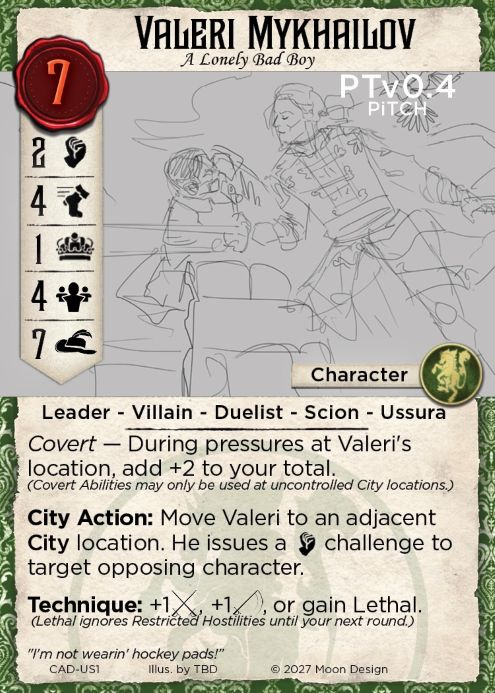
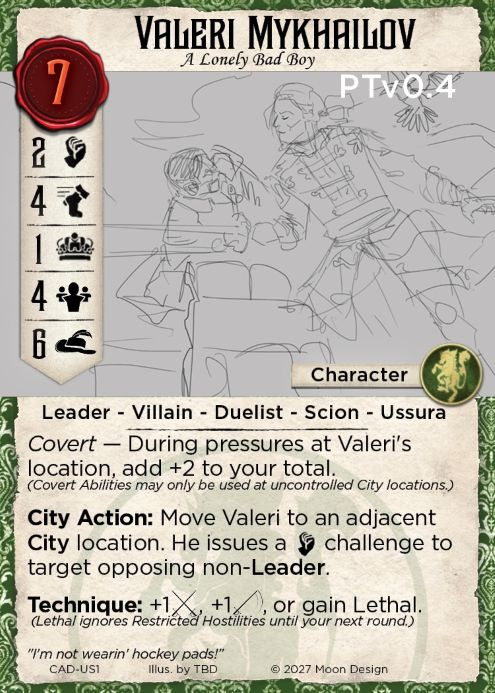
Halloween theme

diff --git a/seventhseacityoffivesails.css b/seventhseacityoffivesails.css
@@ -282,6 +282,73 @@ html[data-theme="dark"] ._7sfs-deck-picker-custom-textarea {
     border-top-right-radius: 10px;
 }
 
+/* WHY: CITY_HALLOWEEN — body gets _7sfs-halloween (Setup.js) so home-row icons
+   outside #city also swap. hand-count = cream fan cards; home-discard / city-discard
+   = dark stacked cards; home-locker / city-locker = white skull; home/score
+   panache = witch hat. Standalone PNGs with alpha (contain/center, not sprite offsets). */
+._7sfs-halloween ._7sfs-hand-count {
+    /* WHY: PNG with alpha — JPG baked a black box over the score row. */
+    background-image: url('img/holiday/hand-count.png');
+    background-size: contain;
+    background-position: center;
+    background-repeat: no-repeat;
+    background-color: transparent;
+}
+
+._7sfs-halloween ._7sfs-home-discard,
+._7sfs-halloween #city-discard {
+    background-image: url('img/holiday/home-discard.png');
+    background-size: contain;
+    background-position: center;
+    background-repeat: no-repeat;
+}
+
+/* WHY: Transparent PNG must show faction colors on home rows; city chip keeps
+   saddlebrown (same as non-Halloween #city-discard). */
+._7sfs-halloween ._7sfs-home-discard {
+    background-color: transparent;
+}
+
+._7sfs-halloween #city-discard {
+    background-color: saddlebrown;
+}
+
+/* WHY: White skull @ 25×23 — solid dark sockets (not hollow) so face reads on
+   faction-colored home rows and saddlebrown city chip. Same asset for both. */
+._7sfs-halloween ._7sfs-home-locker,
+._7sfs-halloween #city-locker {
+    background-image: url('img/holiday/home-locker.png');
+    background-size: contain;
+    background-position: center;
+    background-repeat: no-repeat;
+}
+
+._7sfs-halloween ._7sfs-home-locker {
+    background-color: transparent;
+}
+
+._7sfs-halloween #city-locker {
+    background-color: saddlebrown;
+}
+
+/* WHY: Witch hat replaces panache plume on home + score chips.
+   Black hat + purple band + orange buckle — white panache number still reads.
+   Transparent PNG so faction-colored home row / score bg shows through.
+   margin-left (home only): hat silhouette reads wider/emptier on the left
+   than the plume. */
+._7sfs-halloween ._7sfs-home-panache,
+._7sfs-halloween ._7sfs-score-panache {
+    background-image: url('img/holiday/home-panache.png');
+    background-size: contain;
+    background-position: center;
+    background-repeat: no-repeat;
+    background-color: transparent;
+}
+
+._7sfs-halloween ._7sfs-home-panache {
+    margin-left: -10px;
+}
+
 #city-locker {
     position: absolute;
     left: 75px;
@@ -318,11 +385,19 @@ html[data-theme="dark"] ._7sfs-deck-picker-custom-textarea {
     border-top-right-radius: 10px;
 }
 
-#city-day-phase {
+/* WHY: Row wraps phase chip + optional Halloween horseman so horseman stays
+   immediately right of the phase text as its width changes (Dawn vs High Drama). */
+#city-day-phase-row {
     display: none;
     position: absolute;
     left: 160px;
     top: -15px;
+    flex-direction: row;
+    align-items: center;
+    gap: 4px;
+}
+
+#city-day-phase {
     line-height: 25px;
 
     text-align: center;
@@ -334,6 +409,26 @@ html[data-theme="dark"] ._7sfs-deck-picker-custom-textarea {
     border-top-right-radius: 10px;
     padding-left:5px;
     padding-right: 5px;
+}
+
+#city-halloween-horseman {
+    display: none;
+    box-sizing: border-box;
+    width: 31px;
+    height: 31px;
+    border: none;
+    border-top-left-radius: 10px;
+    border-top-right-radius: 10px;
+    background-image: url('img/holiday/headlesshorseman.png');
+    background-size: contain;
+    background-repeat: no-repeat;
+    background-position: center;
+    /* WHY: Transparent PNG — no baked bg; sits on the board without a chip frame. */
+    background-color: transparent;
+}
+
+._7sfs-city-halloween #city-halloween-horseman {
+    display: block;
 }
 
 #city-ul-tower {
@@ -368,6 +463,31 @@ html[data-theme="dark"] ._7sfs-deck-picker-custom-textarea {
     fill: black;
     stroke-width: 10;
     stroke: saddlebrown;
+}
+
+/* WHY: CITY_HALLOWEEN === 1 adds _7sfs-city-halloween on #city (Setup.js).
+   Hide SVG rects; paint same 30x30 slots with lit jack-o-lantern art.
+   Border uses saddlebrown like #city / day chip / SVG tower stroke — without it the
+   black-backed JPG reads as a plain black block at this size. */
+._7sfs-city-halloween #city-ul-tower,
+._7sfs-city-halloween #city-ur-tower,
+._7sfs-city-halloween #city-ll-tower,
+._7sfs-city-halloween #city-lr-tower {
+    box-sizing: border-box;
+    width: 30px;
+    height: 30px;
+    border: 3px solid saddlebrown;
+    background-image: url('img/holiday/jackolantern.jpg');
+    background-size: cover;
+    background-repeat: no-repeat;
+    background-position: center;
+}
+
+._7sfs-city-halloween #city-ul-tower svg,
+._7sfs-city-halloween #city-ur-tower svg,
+._7sfs-city-halloween #city-ll-tower svg,
+._7sfs-city-halloween #city-lr-tower svg {
+    display: none;
 }
 
 ._7sfs-city-location {

diff --git a/modules/js/Setup.js b/modules/js/Setup.js
@@ -15,6 +15,14 @@ return declare('seventhseacityoffivesails.setup', null, {
     {
         this.bga.gameArea.getElement().insertAdjacentHTML('beforeend', this.mainBoardhtml);
 
+        // WHY: CITY_HALLOWEEN is a client flag (seventhseacityoffivesails.js).
+        // Class on #city keeps tower DOM ids intact for city-deck FLIP origins.
+        // Class on body also covers home-discard / hand-count outside #city.
+        if (window.CITY_HALLOWEEN === 1) {
+            dojo.addClass('city', '_7sfs-city-halloween');
+            dojo.addClass(document.body, '_7sfs-halloween');
+        }
+
         debug( "Starting game setup" );
         debug( "gamedatas", gamedatas );
 
@@ -70,6 +78,9 @@ return declare('seventhseacityoffivesails.setup', null, {
         this.addTippyTooltip( 'city-locker', `<div class='_7sfs-basic-tooltip'>${_('City Locker Pile')}</div>` );
         this.addTippyTooltip( 'day-indicator', `<div class='_7sfs-basic-tooltip'>${_('The Current Day')}</div>` );
         this.addTippyTooltip( 'city-day-phase', `<div class='_7sfs-basic-tooltip'>${_('The Current Phase of the Day')}</div>` );
+        if (window.CITY_HALLOWEEN === 1) {
+            this.addTippyTooltip( 'city-halloween-horseman', `<div class='_7sfs-basic-tooltip'>${_('Happy Halloween!')}</div>` );
+        }
         this.addTippyTooltipToClass('_7sfs-city-reknown-chip', `<div class='_7sfs-basic-tooltip'>${_('Current Renown on this City Location')}</div>` );
 
         //Update the day
@@ -87,8 +98,9 @@ return declare('seventhseacityoffivesails.setup', null, {
                 case 4: $('city-day-phase').innerHTML = _('Plunder'); break;
                 case 5: $('city-day-phase').innerHTML = _('Dusk'); break;
             }
-            
-            dojo.style('city-day-phase', 'display', 'block');
+
+            // WHY: Show the row (phase + optional horseman), not just #city-day-phase.
+            dojo.style('city-day-phase-row', 'display', 'flex');
         }
 
         // Setting up player home boards

diff --git a/seventhseacityoffivesails.js b/seventhseacityoffivesails.js
@@ -52,6 +52,10 @@ function (dojo, declare, domClass, gamegui, counter, stock, BgaAnimations, bgaCa
 {
     // Define isDebug and debug globally so all modules can access them
     window.isDebug = window.location.host == 'studio.boardgamearena.com' || window.location.hash.indexOf('debug') > -1;
+
+    // WHY: Seasonal city-tower swap. Set to 1 for lit jack-o-lanterns; 0 restores SVG towers.
+    // Client-only — no server/gamedatas involvement; flip and redeploy when Halloween ends.
+    window.CITY_HALLOWEEN = 1;
     
     // Store bga-cards classes globally
     // The library exports CardManager as 'Manager' and HandStock directly

diff --git a/modules/js/Templates.js b/modules/js/Templates.js
@@ -417,7 +417,10 @@
                     <div id="city-discard"></div>
                     <div id="city-locker"></div>
                     <div id="day-indicator"></div>
-                    <div id="city-day-phase"></div>
+                    <div id="city-day-phase-row">
+                        <div id="city-day-phase"></div>
+                        <div id="city-halloween-horseman"></div>
+                    </div>
 
                     <div id="city-ur-tower">
                         <svg width="30" height="30" xmlns="http://www.w3.org/2000/svg">

diff --git a/modules/js/OnEnteringState.js b/modules/js/OnEnteringState.js
@@ -18,7 +18,8 @@ onEnteringState: function( stateName, args )
     const methods = {
         'dawnBeginning': (args) => {
             $('city-day-phase').innerHTML = _('Dawn');
-            dojo.style('city-day-phase', 'display', 'block');            
+            // WHY: Row also hosts Halloween horseman to the right of the phase chip.
+            dojo.style('city-day-phase-row', 'display', 'flex');
         },
 
         'planningPhase': () => {

diff --git a/modules/php/cards/cad/_05DabneyUS01.php b/modules/php/cards/cad/_05DabneyUS01.php
@@ -45,7 +45,7 @@ class _05DabneyUS01 extends Leader implements IHasActions
 
         $this->Text = "<p><i>Covert</i> - During pressures at Valeri's location, add +2 to your total.
 <br>(<i>Covert Abilities may only be used at uncontrolled locations.</i>)</p>
-<p><b>City Action:</b> Move Valeri to an adjacent <b>City</b> location. He issues a [Combat] challenge to target opposing character.</p>
+<p><b>City Action:</b> Move Valeri to an adjacent <b>City</b> location. He issues a [Combat] challenge to target opposing non-</b>Leader</b>.</p>
 <p><b>Technique:</b> +1[Parry], +1[Riposte], or gain Lethal</p>";
 
         $this->resetCard();

diff --git a/.cursor/journal/2026-10-09-04-city-halloween-towers.md b/.cursor/journal/2026-10-09-04-city-halloween-towers.md
@@ -1,0 +1,100 @@
+# City Halloween towers (CITY_HALLOWEEN)
+
+## Context
+User asked to replace the four city corner towers with lit jack-o-lanterns, then to gate that behind a `CITY_HALLOWEEN` flag (show when `1`).
+
+## What / Why
+- Towers stay as `#city-ul-tower` etc. in Templates.js (SVG rects). **Do not remove those ids** — Notifications FLIP city-deck cards from `#city-ul-tower`.
+- Flag is **client-only** `window.CITY_HALLOWEEN` in `seventhseacityoffivesails.js` (same pattern as `isDebug`). WHY not a game option / gamedatas: seasonal art only; no server state; flip + redeploy when Halloween ends.
+- Setup.js: if flag === 1, `dojo.addClass('city', '_7sfs-city-halloween')`.
+- CSS under that class: hide SVGs, 30×30 `background-image: url('img/jackolantern.jpg')`, drop black borders.
+- Asset: generated `img/jackolantern.jpg` (black bg, lit pumpkin). Same file on all four corners.
+
+## Toggle
+```js
+window.CITY_HALLOWEEN = 1; // on
+window.CITY_HALLOWEEN = 0; // normal SVG towers
+```
+Currently set to **1**.
+
+## Unfinished / watch
+- At 30×30 the carved face may be muddy — if Eddie complains, regenerate a simpler flatter icon or crop tighter.
+- Black square behind pumpkin may look odd on non-black board edges; could chase a transparent PNG later.
+
+## Follow-up: borders
+User: jackolantern read as plain black block. Restored city chrome — `3px solid saddlebrown` + `box-sizing: border-box` + `background-size: cover` (was `border: none` / fixed 30px size which hid the frame that made original SVG towers read as towers).
+
+## Follow-up: headless horseman
+Asset `img/headlesshorseman.jpg`. Wrapped `#city-day-phase` in `#city-day-phase-row` (flex) with `#city-halloween-horseman` sibling so it sits immediately right of the phase chip as text width changes. Horseman only `display:block` under `._7sfs-city-halloween`. Setup + dawnBeginning now show the **row** (`display:flex`), not `#city-day-phase` alone. Tooltip: "Happy Halloween!"
+
+## Follow-up: horseman legibility
+First horseman was dark gothic linework — mud at 31px. Regenerated as flat bold icon: big bright pumpkin as focal point, simple black horse/cloak silhouettes, thick shapes, no fine detail. Overwrote `img/headlesshorseman.jpg` (and assets copy). CSS size unchanged.
+
+Still unreadable (black-on-black). Regenerated again with light cream parchment bg (#F5E6C8) so dark silhouette pops; CSS `background-color` matched.
+
+## Follow-up: holiday folder
+Moved both assets to `img/holiday/` (`jackolantern.jpg`, `headlesshorseman.jpg`). CSS urls updated to `img/holiday/...`.
+
+## Follow-up: discard spiders
+**Mistake:** first spider art was the cream fan cards = `_7sfs-hand-count` (`-315px` @ 65% → src ~485), NOT discard. Renamed to `img/holiday/hand-count.jpg`.
+
+**Real discard:** `_7sfs-home-discard` / `#city-discard` share `-208px` @ 50% → src (416,0,72,48) — dark stacked-card silhouette (black+alpha on transparent; reads on saddlebrown). Holiday: `img/holiday/home-discard.jpg` with 2 bright orange spiders (black wouldn't read on dark stack). Kept `home-discard-base.png` + `hand-count-base.png`.
+
+**CSS/JS:** Setup also `dojo.addClass(document.body, '_7sfs-halloween')` — hand-count and home-discard live outside `#city`. Rules under `._7sfs-halloween` for both; city-discard uses home-discard.jpg.
+
+## Follow-up: hand-count transparency
+AI JPG had opaque black bg (JPG can't alpha). Rebuilt `hand-count.png` from transparent `hand-count-base.png` crop + GDI+ dark-purple spiders. CSS → png, `contain`, `background-color: transparent`.
+
+## Follow-up: hand-count spider size
+User snip showed purple specks under the "7". Thin spiders die at 35×32. Redrew as chunky dark-purple silhouettes (thick body + short fat legs), scale ~10 on 8x work — ~30–40% of a card face. Center left clear for numeral.
+
+## Follow-up: home-discard transparency
+`home-discard.jpg` had baked saddlebrown — wrong on faction-colored home rows. Rebuilt `home-discard.png` from alpha sheet crop + orange spiders (readable on dark stack). CSS → png, contain, transparent. Deleted jpg. Same asset for `#city-discard` and `._7sfs-home-discard`.
+
+## Follow-up: home-discard spider size
+Spiders too small after transparent rebuild. Bumped chunky orange spiders to scale ~12 on 8x work (~15% of 36×24 chip is orange). Output 72×48 PNG.
+
+## Follow-up: city-discard bg
+Halloween rule set `background-color: transparent` on BOTH home + city discard. City chip lost saddlebrown (user snip). Split: home stays transparent; `#city-discard` restores `saddlebrown`.
+
+## Follow-up: discard spider colors
+Size was good; legs were orange too. Redrew same scale with black legs, orange bodies (legs drawn under body).
+
+## Follow-up: discard spider angles
+User wanted more realistic crawl pose. Same size/colors; RotateTransform −35° and +50° so they aren't upright stamps.
+
+## Follow-up: hand-count spiders match discard
+Restyled `hand-count.png` spiders same as discard: orange bodies, black legs, crawl angles −65° / +55°, elongated abdomen via polygon. Still transparent PNG; parked on side cards for numeral.
+
+## Follow-up: jackolantern fill
+User: too much black padding in `img/holiday/jackolantern.jpg`. Kept 1024×1024; ImageMagick `-fuzz 5% -trim` then `-resize 980x980` centered on black `-extent 1024x1024`. Content was ~746×741 (+146+116 margins) → ~980×973 (+22+25). WHY 980 not full bleed: tiny margin so stem/edges don't clip at 30×30 `cover` crop.
+
+## Follow-up: horseman gloomy grey bg
+User: cream parchment → gloomy grey, but not dark enough to mud black silhouette at 31px. Flood-filled cream from edges → `#94989F` (148,152,159); remapped cream/black AA edges; left pumpkin + orange glow alone. CSS `#city-halloween-horseman` `background-color` matched (was `#F5E6C8`). WHY mid cool grey not charcoal: earlier dark gothic art was illegible at chip size — need contrast vs solid black horse/cloak.
+
+## Follow-up: horseman no gold border
+User: remove gold border from `#city-halloween-horseman` → `border: none`.
+
+## Follow-up: horseman transparent PNG
+User: transparent PNG + remove CSS border. Flood-removed gloomy grey `#94989F` → alpha; silhouette AA as soft black alpha (no grey halo); pumpkin/glow kept. Saved `img/holiday/headlesshorseman.png`, deleted `.jpg`. CSS: `url(...png)`, `contain`, `background-color: transparent`, `border: none`. WHY transparent: grey chip square looked framed; PNG floats silhouette+pumpkin on the board like hand-count/home-discard holiday overlays.
+
+## Follow-up: home-locker skull
+User: replace `_7sfs-home-locker` sprite when Halloween with white skull facing 45° left, transparent PNG, legible at 25×23.
+
+**Asset:** `img/holiday/home-locker.png` — AI gen with green chroma bg, then GDI+ pixel pass (G-dominant → alpha) because IM `-transparent`/`floodfill` failed on non-pure #00FF00 JPEG greens. Solid dark eye/nose/teeth (not hollow cutouts) so face still reads on faction-colored home rows.
+
+**CSS:** `._7sfs-halloween ._7sfs-home-locker` + `#city-locker` → contain/center/transparent PNG. Home transparent (faction colors); city keeps saddlebrown — same split as discard. WHY also city-locker: same boardResources offset sprite as home; discard pattern already swaps both.
+
+**WHY not rotate in CSS:** art is already three-quarter-left; CSS rotate would also tilt the face and look wrong at chip size.
+
+## Follow-up: locker skull dead space
+User: lots of dead space around skull. First pass only nudged scale inside square 878² — barely helped because `contain` sizes the whole square. Real fix: strip residual mint-green chroma fringe (opaque AA leftovers inflated bbox), then **tight crop to content** (~674×830, ~1.5% margin) — no re-pad to square. Now fills 100% of chip height at 25×23; side gap is skull aspect (~74% width). If Eddie wants full bleed on the chip, switch CSS to `cover` (will clip a bit).
+
+## Follow-up: home-panache witch hat
+User: replace `_7sfs-home-panache` sprite when Halloween with witch's hat, transparent PNG.
+
+**Asset:** `img/holiday/home-panache.png` (~821×850). AI gen came back as opaque cream/gray JPG; GDI+ pass keyed near-white neutrals → alpha, soft mid-gray AA → black alpha, then tight crop (~1.5% margin). Kept `panache-base.png` (40×25 extract from boardResources at -313,0) for reference.
+
+**CSS:** `._7sfs-halloween ._7sfs-home-panache` + `._7sfs-score-panache` — contain/center/transparent. WHY both: user wants score-row chip swapped too (same hat asset). Black hat body keeps white panache number readable.
+
+**Spacing:** Halloween-only `margin-left: -10px` on home panache (Eddie tuned from -5); score chip left alone.
